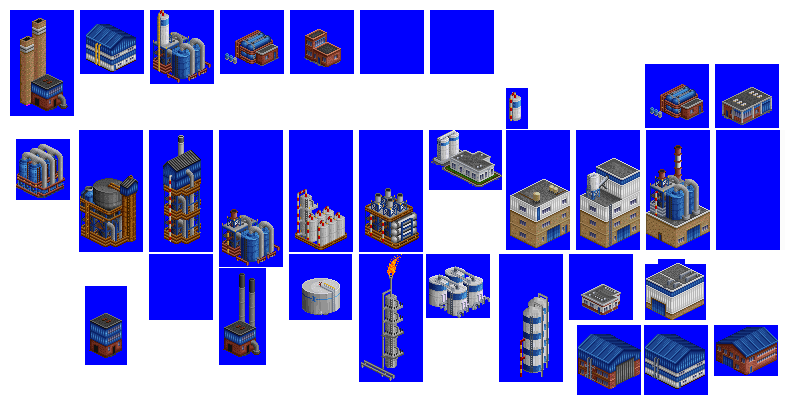
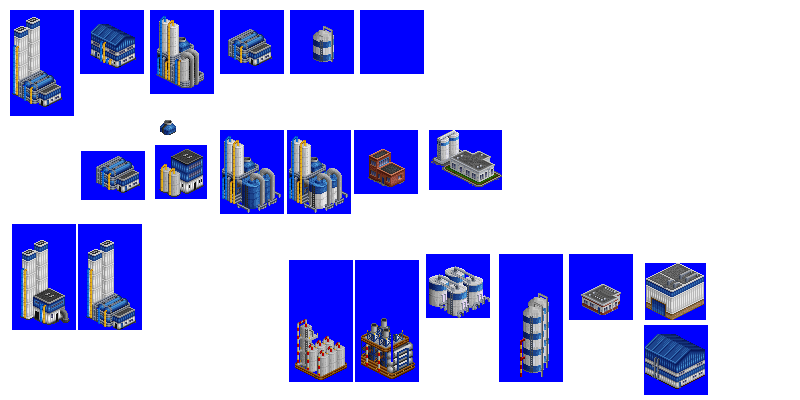
Change: WIP on Cryo Plant sprites

diff --git a/src/industries/cryo_plant.py b/src/industries/cryo_plant.py
@@ -29,19 +29,19 @@ spriteset_1 = industry.add_spriteset(
     sprites=[(10, 10, 64, 106, -31, -73)],
 )
 spriteset_2 = industry.add_spriteset(
-    sprites=[(80, 10, 64, 64, -31, -31)],
+    sprites=[(80, 10, 64, 64, -31, -32)],
 )
 spriteset_3 = industry.add_spriteset(
-    sprites=[(150, 10, 64, 74, -31, -42)],
+    sprites=[(150, 10, 64, 84, -31, -52)],
 )
 spriteset_4 = industry.add_spriteset(
     sprites=[(220, 10, 64, 64, -31, -32)],
 )
 spriteset_5 = industry.add_spriteset(
-    sprites=[(290, 10, 64, 64, -31, -31)],
+    sprites=[(290, 10, 64, 64, -31, -32)],
 )
 spriteset_6 = industry.add_spriteset(
-    sprites=[(360, 10, 64, 64, -31, -31)],
+    sprites=[(360, 10, 64, 64, -31, -32)],
 )
 
 industry.add_spritelayout(
@@ -56,54 +56,69 @@ industry.add_spritelayout(
     ground_sprite=spriteset_ground,
     ground_overlay=spriteset_ground_overlay,
     building_sprites=[spriteset_2],
-    fences=[]
+    fences=['nw', 'ne', 'se', 'sw']
 )
 industry.add_spritelayout(
-    id='cryo_plant_spritelayout_horizontal_tanks',
+    id='cryo_plant_spritelayout_purification_unit',
     ground_sprite=spriteset_ground,
     ground_overlay=spriteset_ground_overlay,
     building_sprites=[spriteset_3],
     fences=['nw', 'ne', 'se', 'sw']
 )
 industry.add_spritelayout(
-    id='cryo_plant_spritelayout_vertical_tanks',
+    id='cryo_plant_spritelayout_horizontal_tanks',
     ground_sprite=spriteset_ground,
     ground_overlay=spriteset_ground_overlay,
     building_sprites=[spriteset_4],
     fences=['nw', 'ne', 'se', 'sw']
 )
 industry.add_spritelayout(
-    id='cryo_plant_spritelayout_office',
+    id='cryo_plant_spritelayout_storage_tank',
     ground_sprite=spriteset_ground,
     ground_overlay=spriteset_ground_overlay,
     building_sprites=[spriteset_5],
-    fences=[]
+    fences=['nw', 'ne', 'se', 'sw']
 )
 industry.add_spritelayout(
     id='cryo_plant_spritelayout_empty',
     ground_sprite=spriteset_ground,
     ground_overlay=spriteset_ground_overlay,
     building_sprites=[spriteset_6],
-    fences=['nw', 'ne', 'se', 'sw']
 )
 
 industry.add_industry_layout(
     id='cryo_plant_industry_layout_1',
-    layout=[(0, 0, 'cryo_plant_tile_1', 'cryo_plant_spritelayout_separation_tower'),
-            (0, 1, 'cryo_plant_tile_1', 'cryo_plant_spritelayout_large_shed'),
-            (1, 0, 'cryo_plant_tile_1', 'cryo_plant_spritelayout_horizontal_tanks'),
-            (1, 1, 'cryo_plant_tile_1', 'cryo_plant_spritelayout_vertical_tanks'),
-            (2, 0, 'cryo_plant_tile_1', 'cryo_plant_spritelayout_office'),
+    layout=[(0, 0, 'cryo_plant_tile_1', 'cryo_plant_spritelayout_large_shed'),
+            (0, 1, 'cryo_plant_tile_1', 'cryo_plant_spritelayout_horizontal_tanks'),
+            (1, 0, 'cryo_plant_tile_1', 'cryo_plant_spritelayout_purification_unit'),
+            (1, 1, 'cryo_plant_tile_1', 'cryo_plant_spritelayout_separation_tower'),
+            (2, 0, 'cryo_plant_tile_1', 'cryo_plant_spritelayout_horizontal_tanks'),
             (2, 1, 'cryo_plant_tile_1', 'cryo_plant_spritelayout_empty'),
+            (3, 0, 'cryo_plant_tile_1', 'cryo_plant_spritelayout_storage_tank'),
+            (3, 1, 'cryo_plant_tile_1', 'cryo_plant_spritelayout_storage_tank'),
             ]
 )
 industry.add_industry_layout(
     id='cryo_plant_industry_layout_2',
+    layout=[(0, 0, 'cryo_plant_tile_1', 'cryo_plant_spritelayout_storage_tank'),
+            (0, 1, 'cryo_plant_tile_1', 'cryo_plant_spritelayout_storage_tank'),
+            (1, 0, 'cryo_plant_tile_1', 'cryo_plant_spritelayout_large_shed'),
+            (1, 1, 'cryo_plant_tile_1', 'cryo_plant_spritelayout_empty'),
+            (2, 0, 'cryo_plant_tile_1', 'cryo_plant_spritelayout_purification_unit'),
+            (2, 1, 'cryo_plant_tile_1', 'cryo_plant_spritelayout_separation_tower'),
+            (3, 0, 'cryo_plant_tile_1', 'cryo_plant_spritelayout_horizontal_tanks'),
+            (3, 1, 'cryo_plant_tile_1', 'cryo_plant_spritelayout_horizontal_tanks'),
+            ]
+)
+industry.add_industry_layout(
+    id='cryo_plant_industry_layout_3',
     layout=[(0, 0, 'cryo_plant_tile_1', 'cryo_plant_spritelayout_separation_tower'),
             (0, 1, 'cryo_plant_tile_1', 'cryo_plant_spritelayout_horizontal_tanks'),
-            (0, 2, 'cryo_plant_tile_1', 'cryo_plant_spritelayout_vertical_tanks'),
+            (0, 2, 'cryo_plant_tile_1', 'cryo_plant_spritelayout_purification_unit'),
+            (0, 3, 'cryo_plant_tile_1', 'cryo_plant_spritelayout_purification_unit'),
             (1, 0, 'cryo_plant_tile_1', 'cryo_plant_spritelayout_large_shed'),
-            (1, 1, 'cryo_plant_tile_1', 'cryo_plant_spritelayout_office'),
+            (1, 1, 'cryo_plant_tile_1', 'cryo_plant_spritelayout_storage_tank'),
             (1, 2, 'cryo_plant_tile_1', 'cryo_plant_spritelayout_empty'),
+            (1, 3, 'cryo_plant_tile_1', 'cryo_plant_spritelayout_empty'),
             ]
 )
